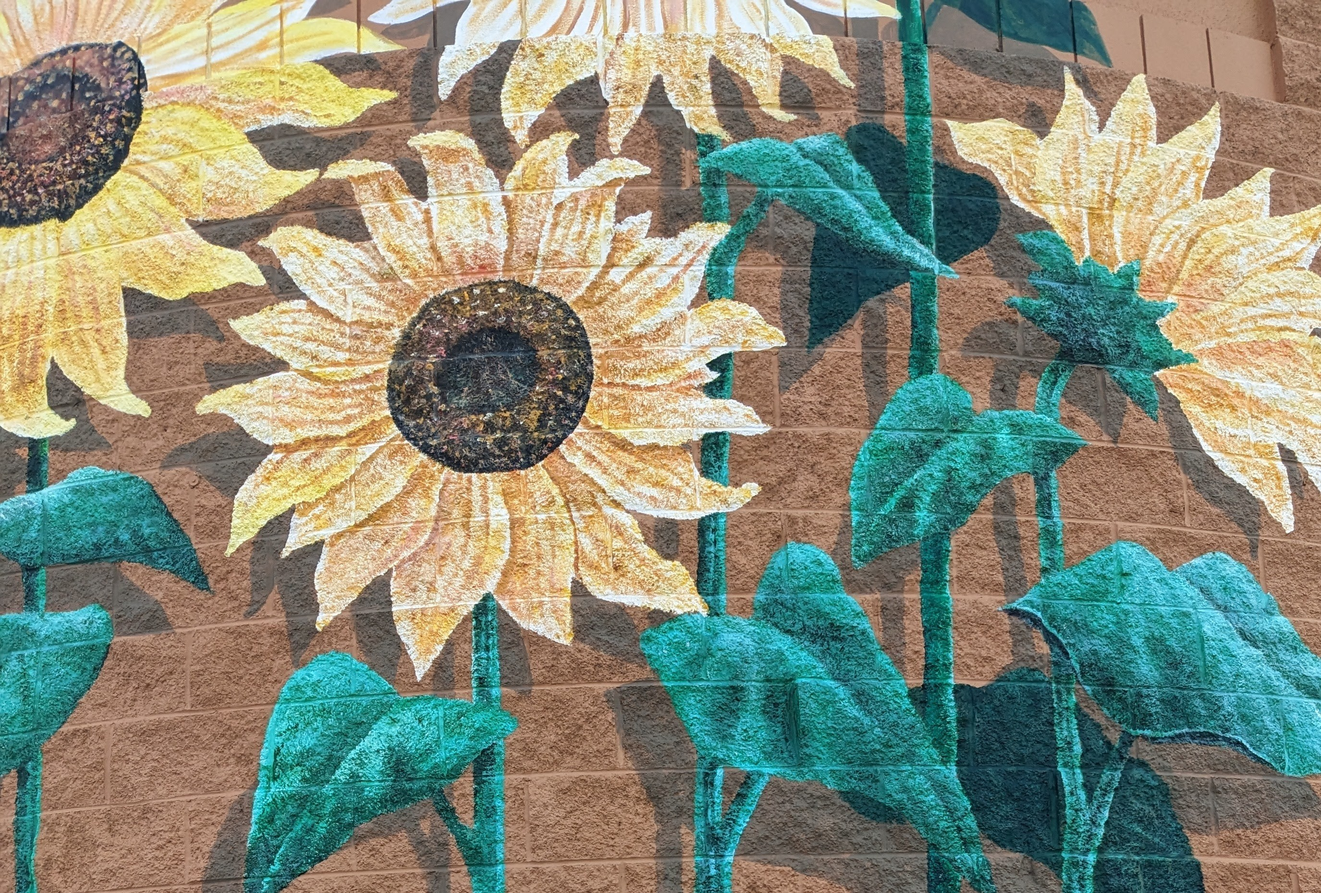
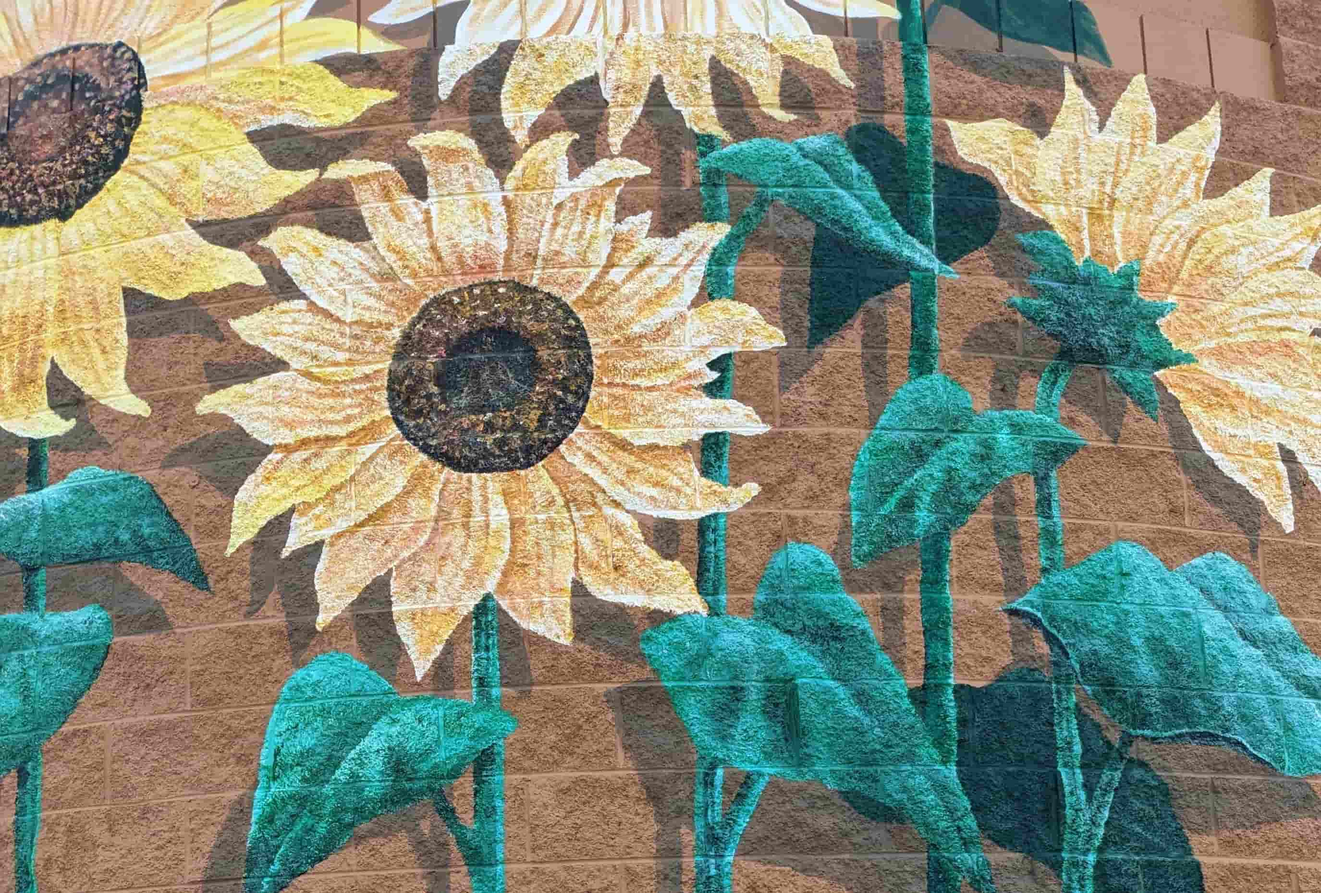
compressed and fixed image resolution

diff --git a/fun.html b/fun.html
@@ -43,7 +43,7 @@
 							<section id="one" class="tiles background">
 								<article>
 									<span class="image">
-										<img src="images/stripes1.png" alt="Bad bar plot" />
+										<img src="images/stripes1.jpg" alt="Bad bar plot" />
 									</span>
 									<header class="major">
 										<!-- <p>Performance Assessment Experiments</p> -->
@@ -91,7 +91,7 @@
 								</article>
 								<article>
 									<span class="image">
-										<img src="images/stripes2.png" alt="Bad bar plot" />
+										<img src="images/stripes2.jpg" alt="Bad bar plot" />
 									</span>
 									<header class="major">
 										<!-- <p>Performance Assessment Experiments</p> -->

diff --git a/pae.html b/pae.html
@@ -83,7 +83,7 @@
 								</section>
 								<section>
 									<a class="image">
-										<img src="images/boxplots.jpeg" alt="Boxplots showing optimism between different data partioning methods" data-position="top center" />
+										<img src="images/boxplots.jpg" alt="Boxplots showing optimism between different data partioning methods" data-position="top center" />
 									</a>
 									<div class="content">
 										<div class="inner">

diff --git a/dyssynchrony.html b/dyssynchrony.html
@@ -64,7 +64,7 @@
 							<section id="two" class="spotlights">
 								<section>
 									<a class="image">
-										<img src="images/dysync.png"  alt="Application showing spectrograms" data-position="center center"/>
+										<img src="images/dysync.jpg"  alt="Application showing spectrograms" data-position="center center"/>
 									</a>
 									<div class="content">
 										<div class="inner">
